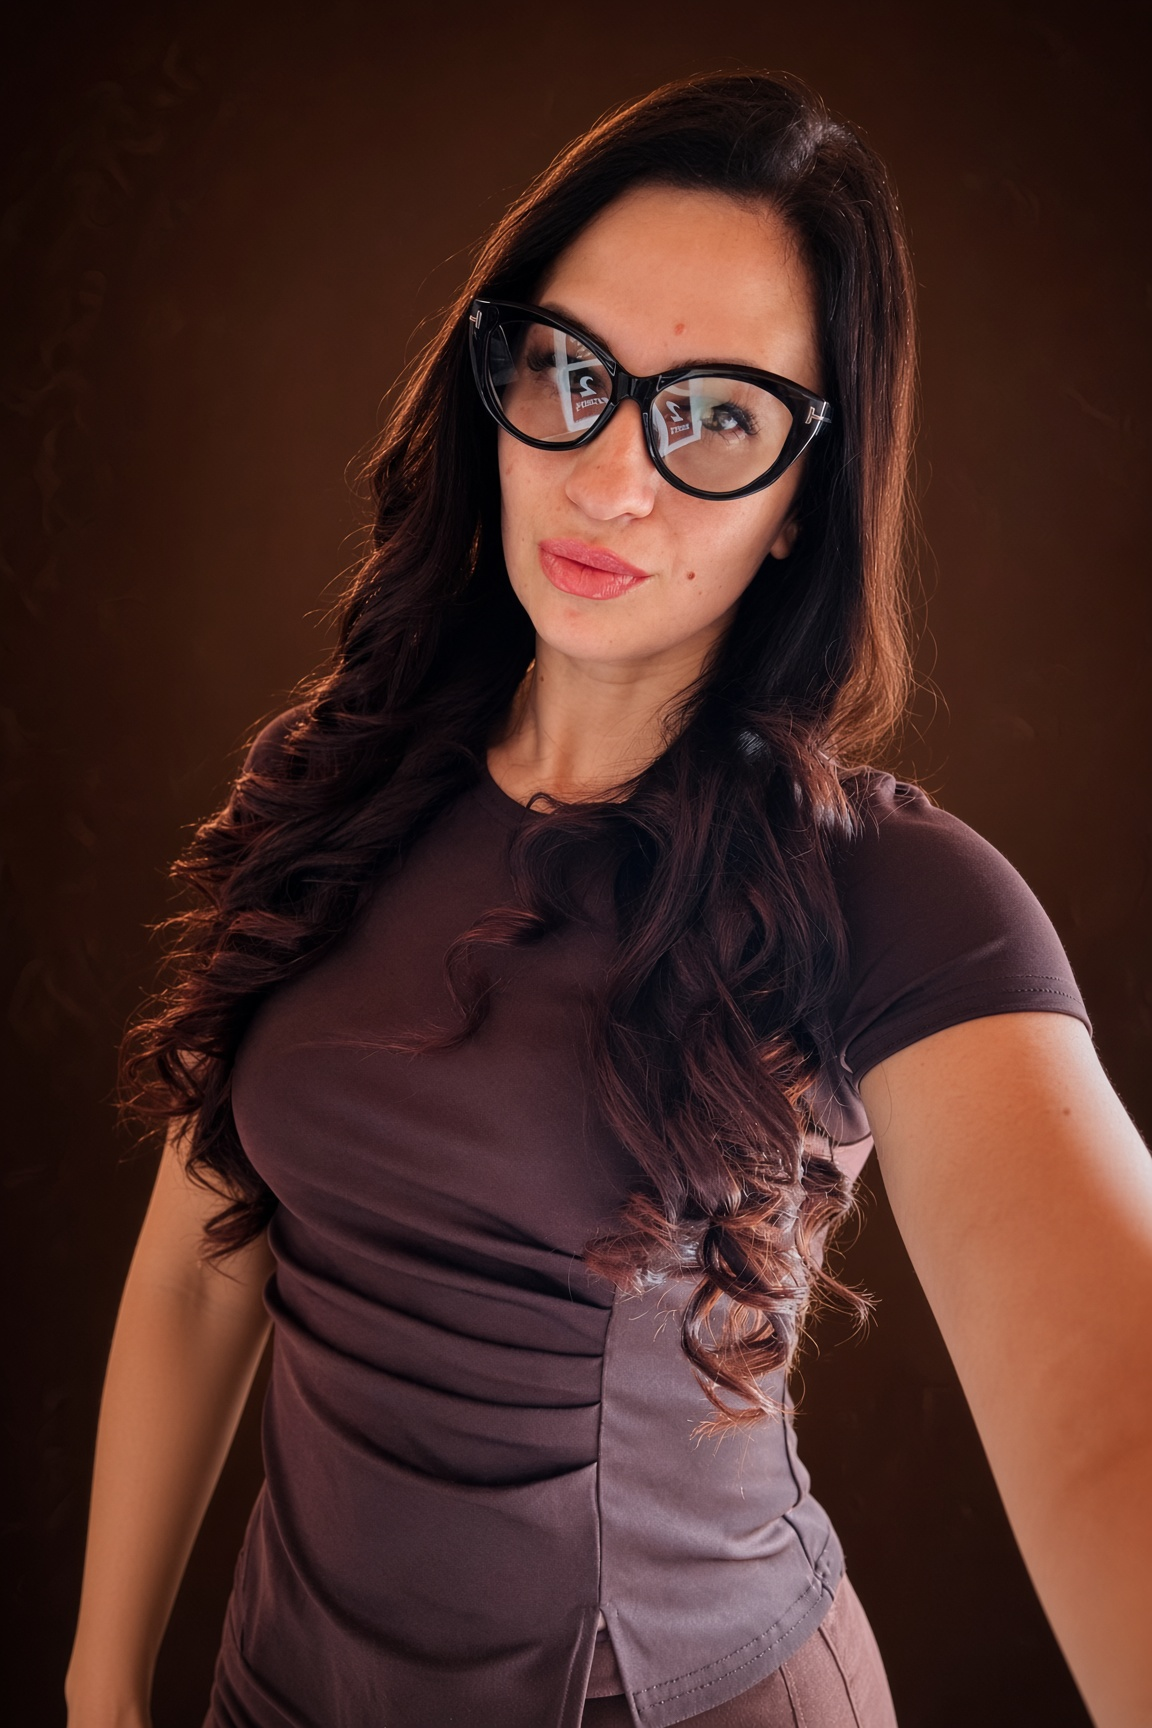
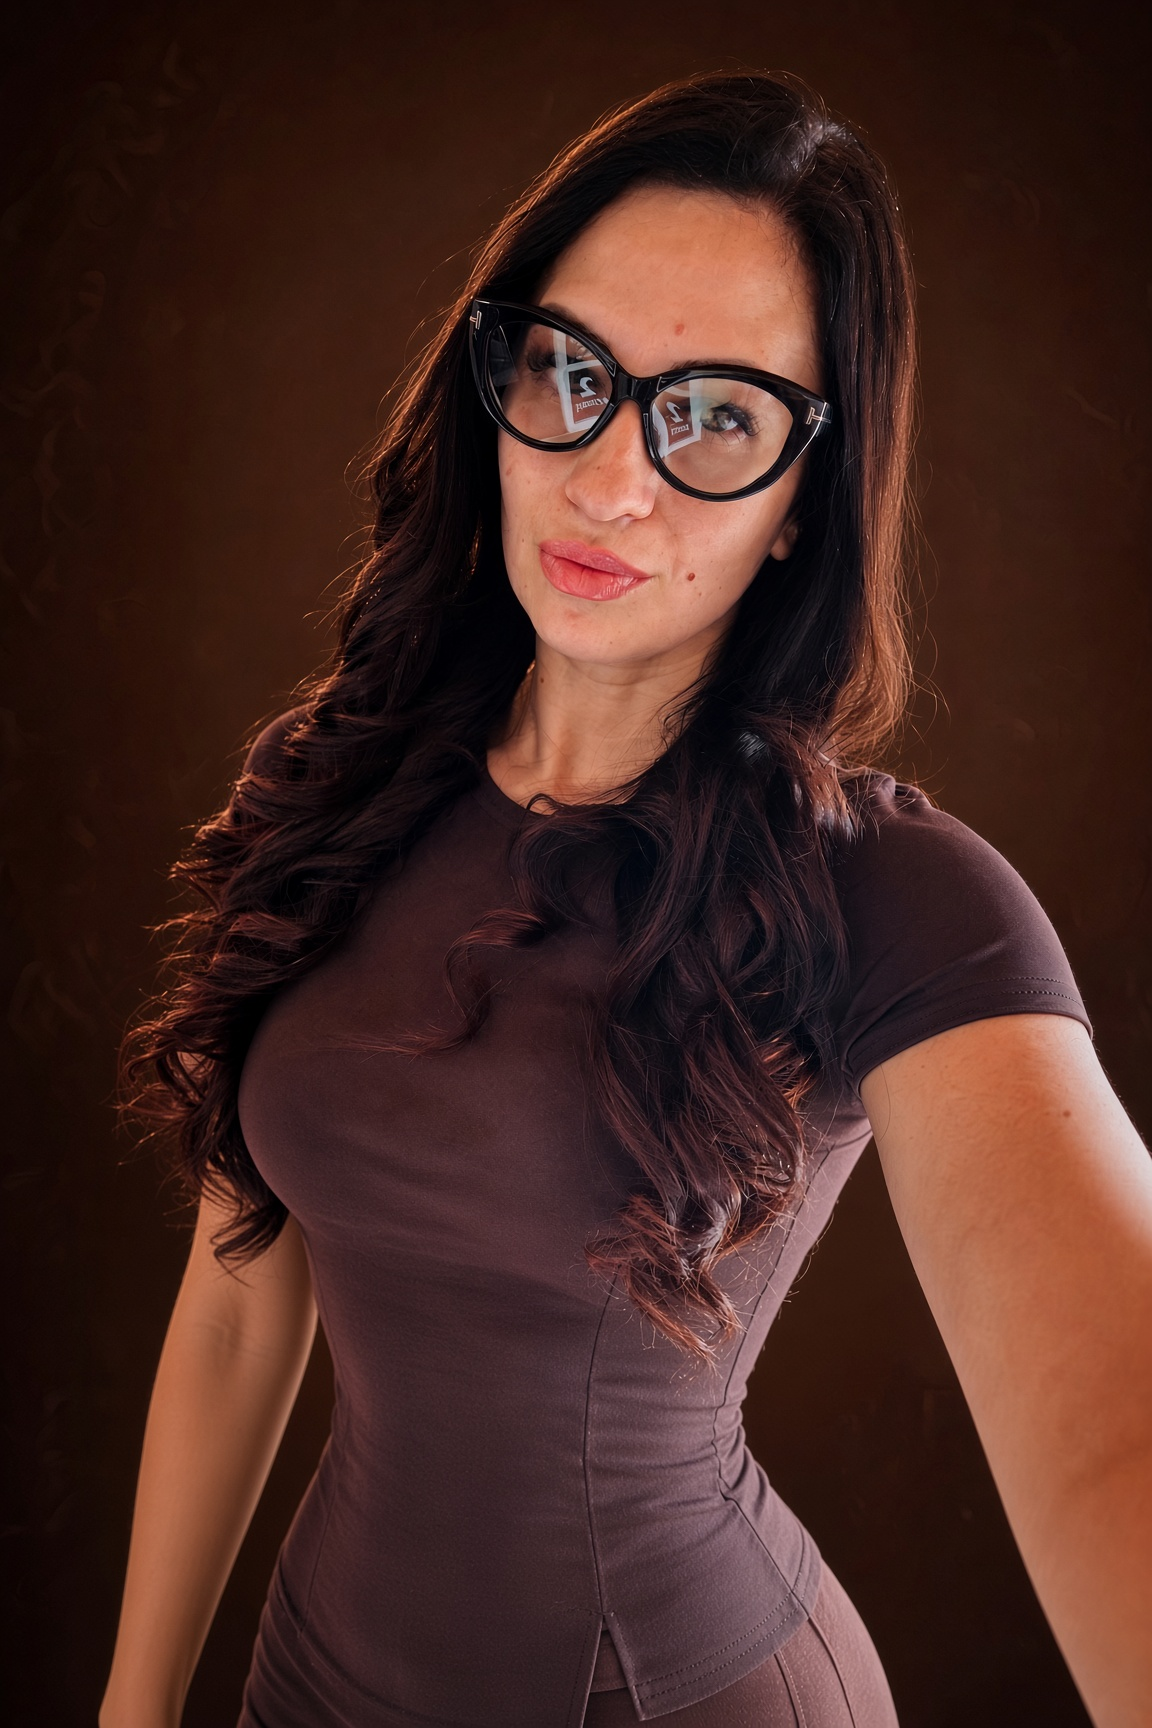
feat: replace the hero portrait

diff --git a/index.html b/index.html
@@ -59,7 +59,7 @@
         </div>
         <figure class="portrait-frame">
           <img
-            src="hero.jpg"
+            src="hero.jpg?v=2"
             alt="Анастасія Мінінкова"
             width="1152"
             height="1728"
